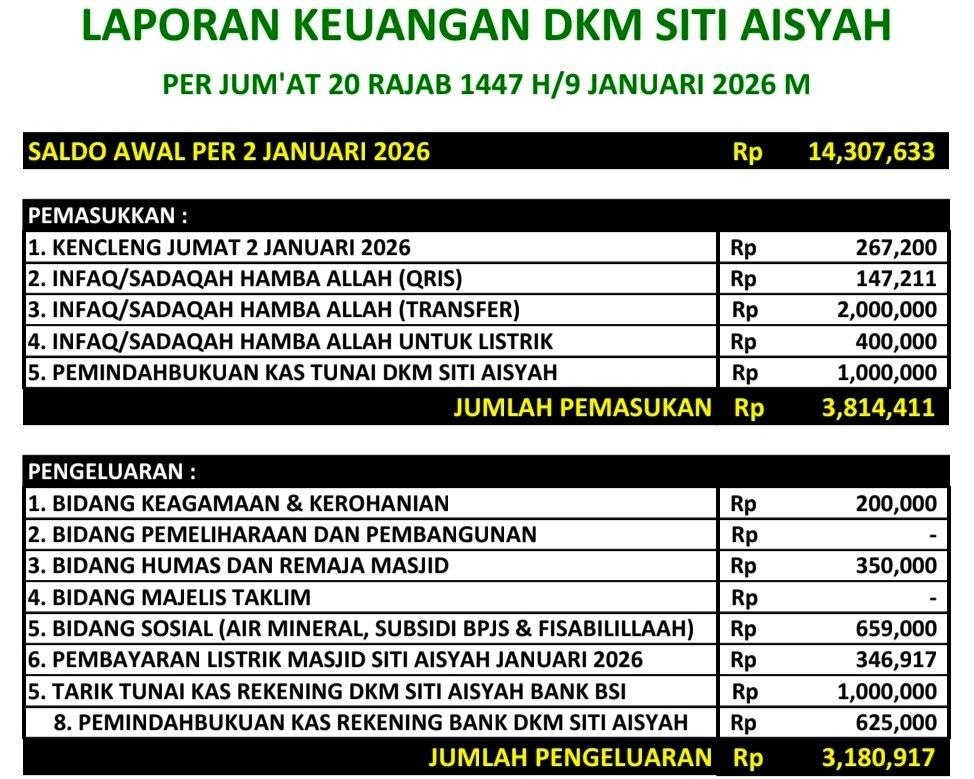
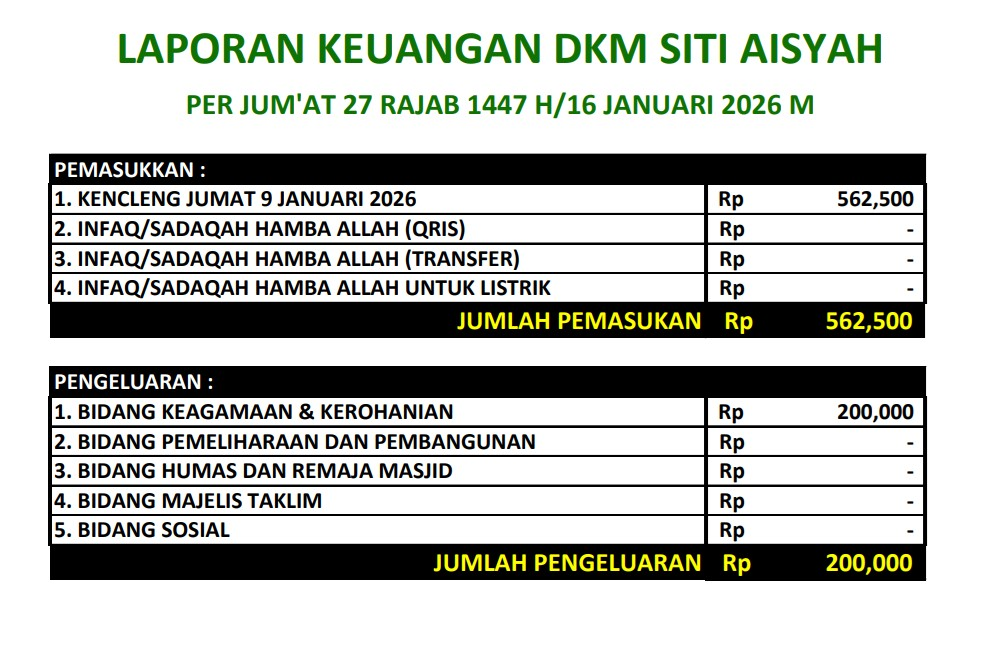
update

diff --git a/index.html b/index.html
@@ -790,7 +790,7 @@
 					<!-- <div class="marquee horizontal" id="informasi">
 					</div> -->
 					<div class="marquee-x">
-						<p>Alhamdulillah kencleng Jumat 20 Rajab 1447 H/ 9 Januari 2026 Sebesar `Rp 562.250`, Jazakallahu khairan katsiron
+						<p>Alhamdulillah kencleng Jumat 27 Rajab 1447 H/16Januari 2026 M Sebesar `Rp 219.500,-`, Jazakallahu khairan katsiron
 						&nbsp; &nbsp;*&nbsp; &nbsp;
 						Setiap rupiah yang kau sedekahkan, menjadi saksi cinta kepada Allah dan sesama
 						&nbsp; &nbsp;*&nbsp; &nbsp;

diff --git a/js/script.js b/js/script.js
@@ -1026,4 +1026,4 @@ function Marquee(selector, speed) {
 //after window is completed load
 //1 class selector for marquee
 //2 marquee speed 0.2
-window.addEventListener('load', Marquee('.marquee-x', 0.2))
+window.addEventListener('load', Marquee('.marquee-x', 0.3))
